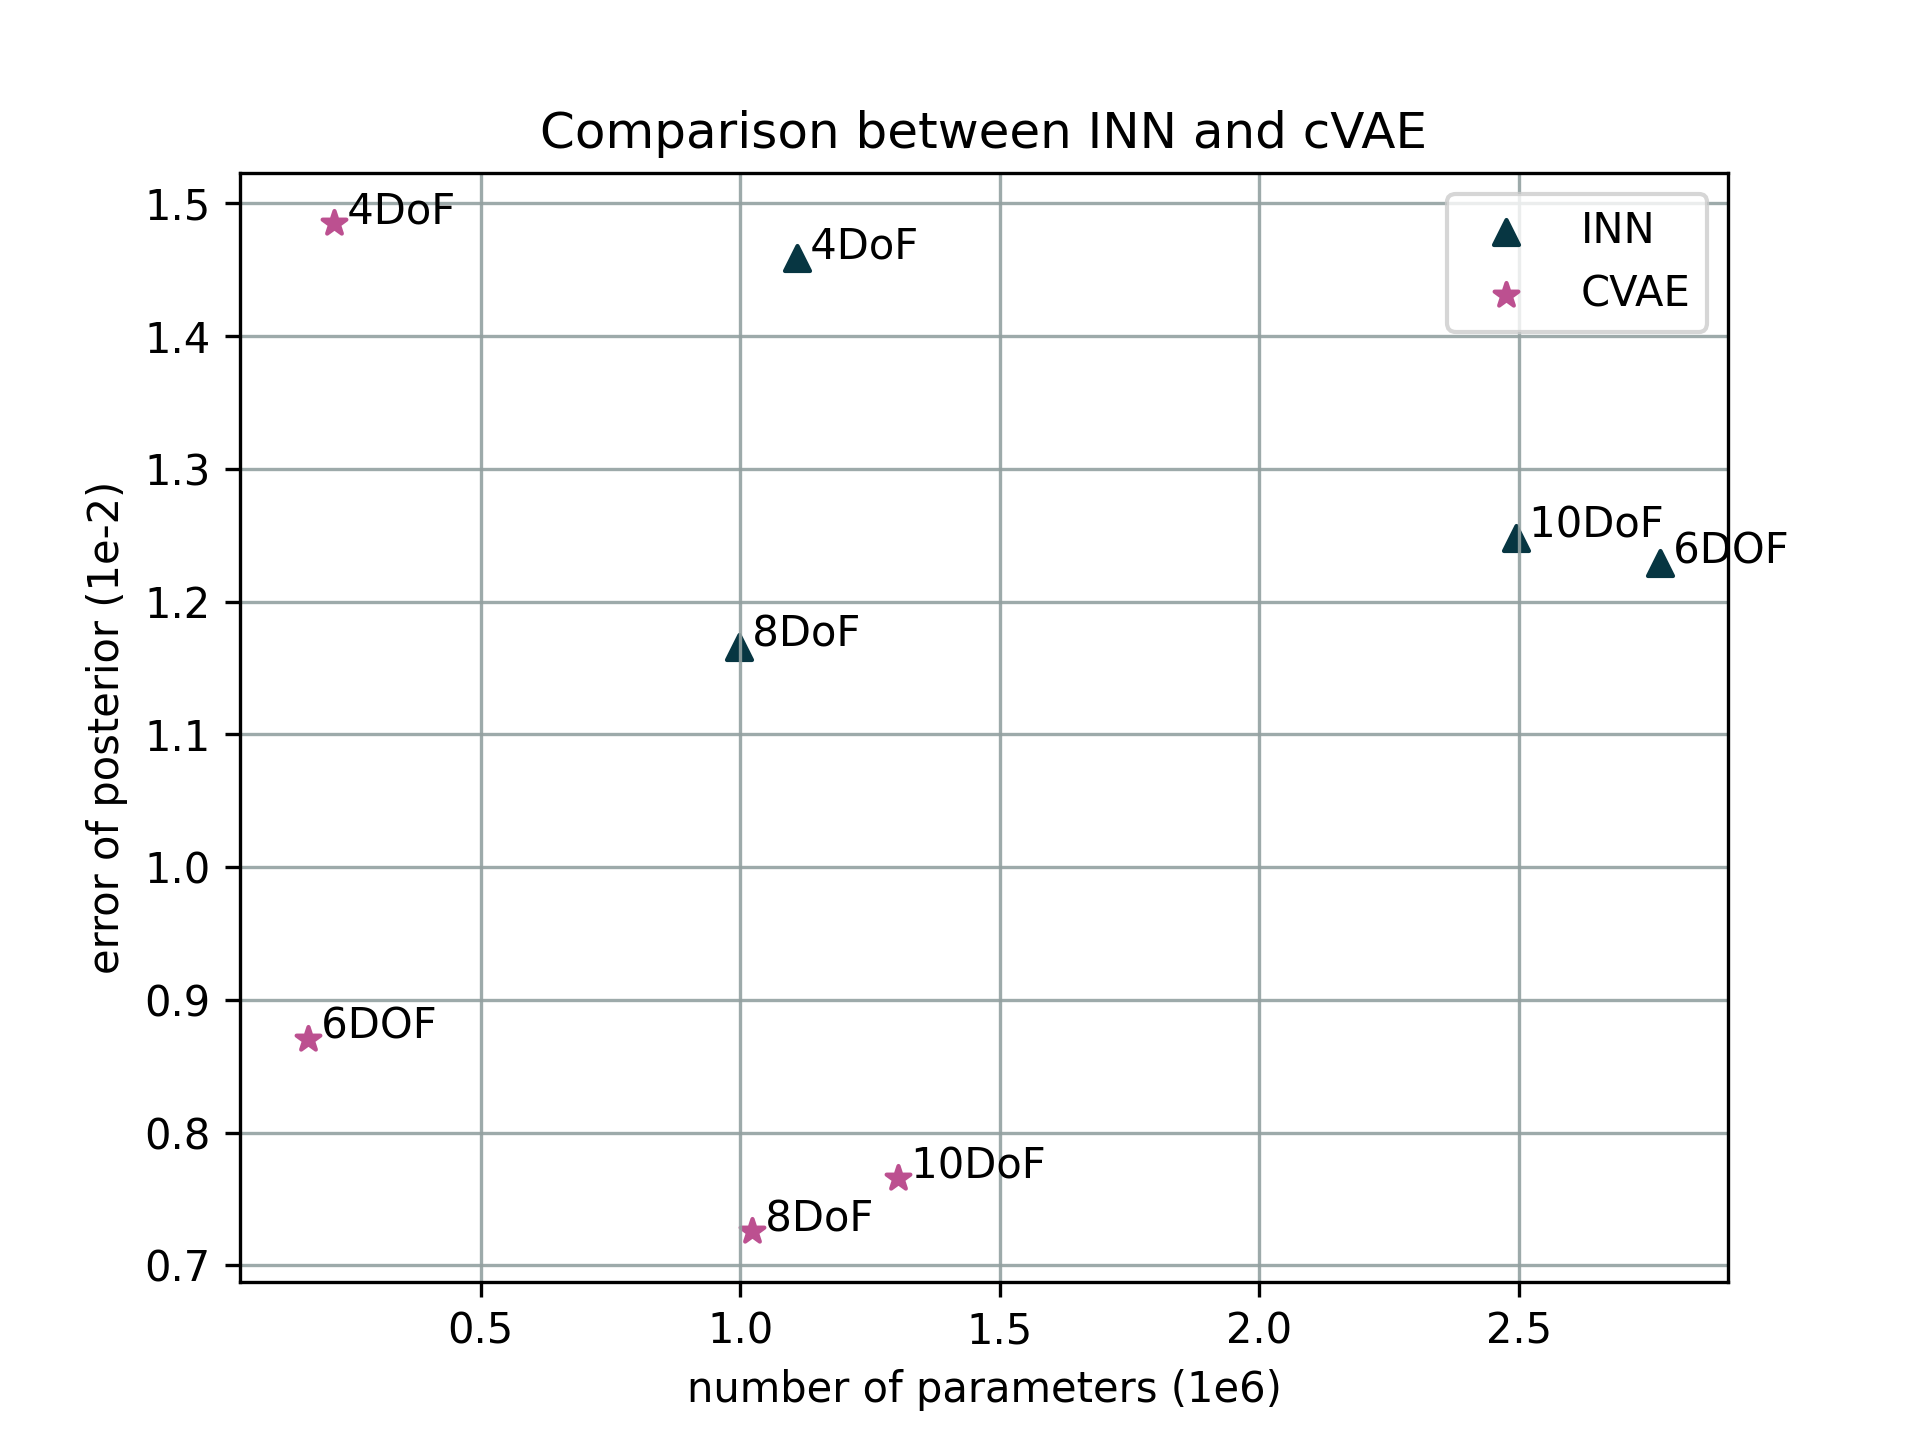
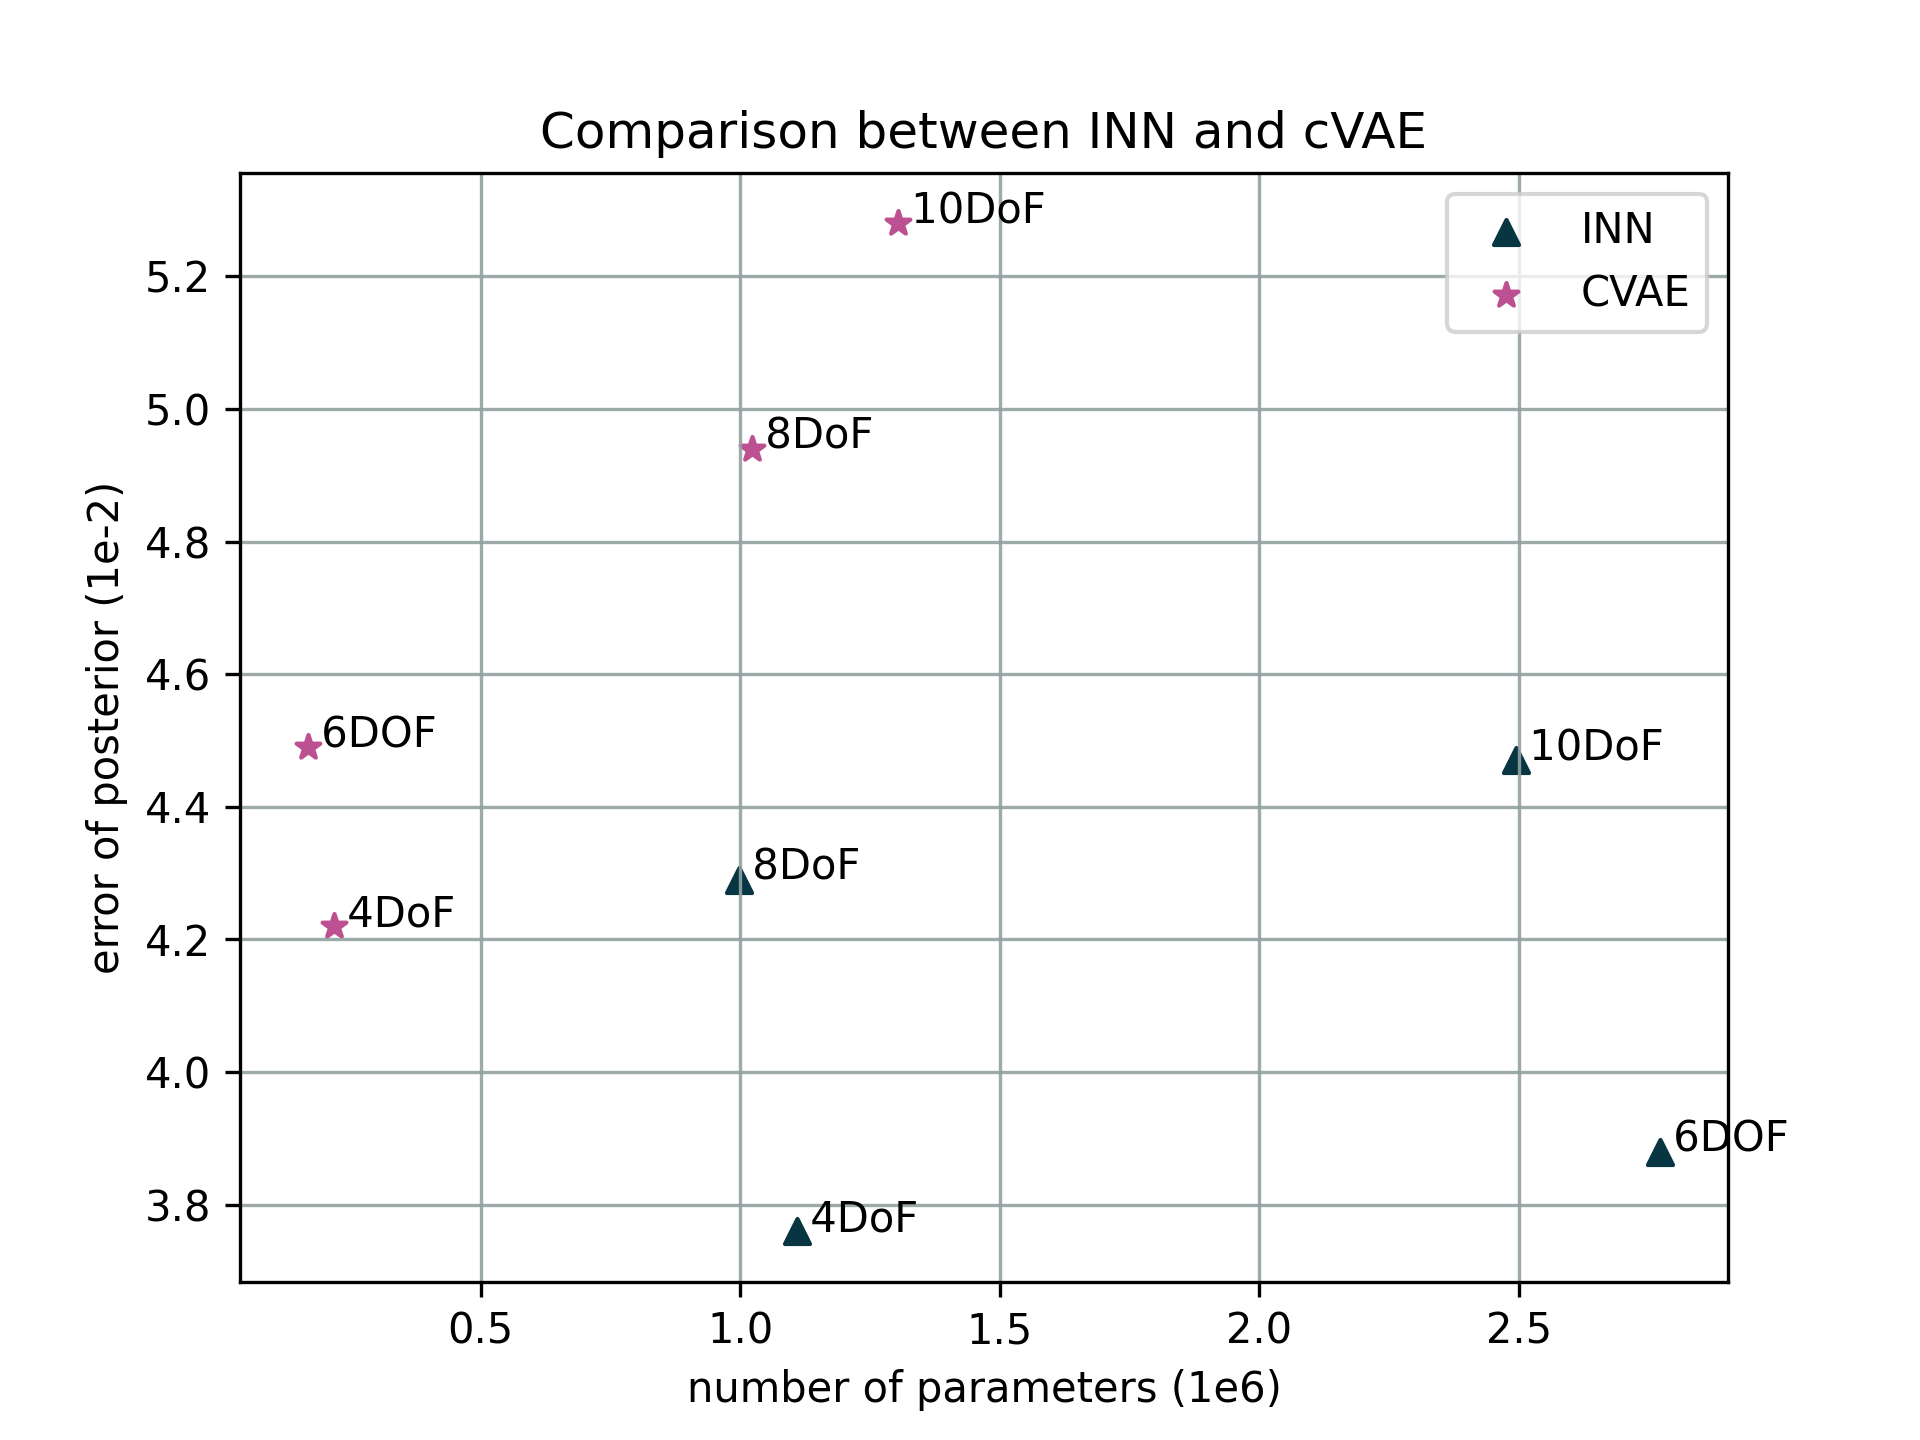
Fixed plots and values

diff --git a/src/visualize_results.py b/src/visualize_results.py
@@ -19,7 +19,7 @@ if __name__ == '__main__':
         params_INN[i] = params_INN[i] * 1e-6
 
     # INN: e_posterior
-    e_posterior_INN = [0.014587438760325313, 0.012290126254782081, 0.01165938847279176, 0.01248140924004838]
+    e_posterior_INN = [0.0376, 0.0388, 0.0429, 0.0447]
     e_resim_INN = [0.0023, 0.0041, 0.0035, 0.0038]
 
 
@@ -29,7 +29,7 @@ if __name__ == '__main__':
         params_CVAE[i] = params_CVAE[i] * 1e-6
 
     # CVAE: e_posterior
-    e_posterior_CVAE = [0.014851279410067945, 0.008709543236764148, 0.007258017353480682, 0.00765587985701859]
+    e_posterior_CVAE = [0.0422, 0.0449, 0.0494, 0.0528]
     e_resim_CVAE = [7.6100e-05, 0.0002, 0.0007, 0.0012]
 
     for i in range(len(e_posterior_INN)):
